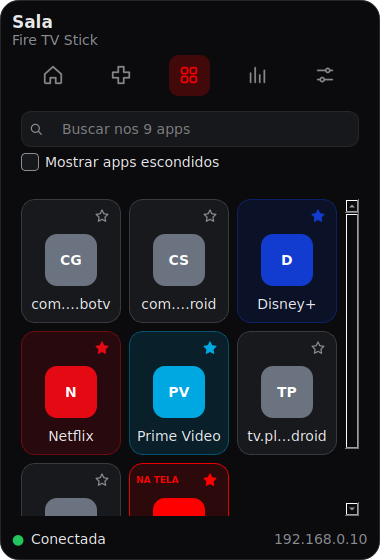
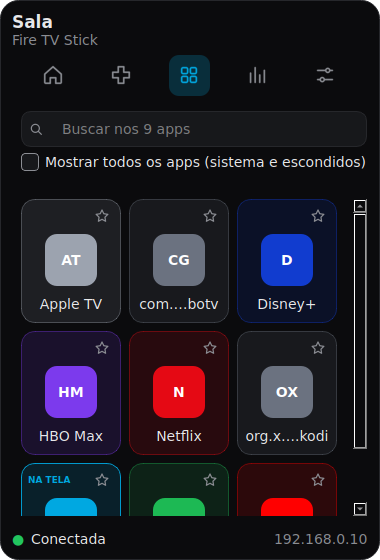
feat: aba Apps mostra só apps famosos e instalados pelo usuário, com nomes reais do Fire TV

diff --git a/tests/test_ui_apps.py b/tests/test_ui_apps.py
@@ -9,6 +9,7 @@ from firetv.ui.apps_tab import AppsTab, AppTile
 
 PM = "pm list packages"
 PACKAGES = "package:com.netflix.ninja\npackage:x.y.z\npackage:a.b.c\n"
+USER_INSTALLED = "package:x.y.z\npackage:a.b.c\n"  # o Netflix vem de fábrica; estes dois foram instalados
 EMPTY_MSG = "Nenhum app encontrado. Conecte ao Stick na aba Ajustes."
 
 
@@ -16,6 +17,7 @@ EMPTY_MSG = "Nenhum app encontrado. Conecte ao Stick na aba Ajustes."
 def env():
     conn = FakeConnection()
     conn.responses[PM] = PACKAGES
+    conn.responses["pm list packages -3"] = USER_INSTALLED
     session = Session(lambda: conn, sleep=lambda s: None)
     session.connect("192.168.0.10")
     return conn, session
@@ -114,6 +116,7 @@ def test_tile_click_launches_package(qtbot, env):
 def test_refreshes_when_session_connects(qtbot):
     conn = FakeConnection()
     conn.responses[PM] = PACKAGES
+    conn.responses["pm list packages -3"] = USER_INSTALLED
     session = Session(lambda: conn, sleep=lambda s: None)
     tab = AppsTab(session, AppConfig())
     qtbot.addWidget(tab)
@@ -125,10 +128,10 @@ def test_refreshes_when_session_connects(qtbot):
 NETFLIX = "com.netflix.ninja"
 
 
-def test_search_placeholder_shows_total_of_loaded_apps(qtbot, env):
+def test_search_placeholder_shows_how_many_apps_are_listed(qtbot, env):
     _, session = env
     tab = make_tab(qtbot, session, AppConfig(hidden=["x.y.z"]), expected_tiles=2)
-    assert tab.search_edit.placeholderText() == "Buscar nos 3 apps"  # conta os escondidos também
+    assert tab.search_edit.placeholderText() == "Buscar nos 2 apps"  # só o que está à mostra
 
 
 def test_search_placeholder_without_apps(qtbot):
@@ -211,3 +214,65 @@ def test_grid_never_scrolls_horizontally(qtbot, env):
     tab = make_tab(qtbot, session, AppConfig(), expected_tiles=3)
     area = tab.findChild(QScrollArea)
     assert area.horizontalScrollBarPolicy() == Qt.ScrollBarAlwaysOff
+
+
+SYSTEM_PACKAGES = PACKAGES + "package:android\npackage:amazon.fireos\npackage:com.amazon.tv.settings\n"
+HINT = 'Nenhum app popular encontrado. Marque "Mostrar todos os apps" para ver o resto.'
+
+
+def test_default_view_lists_only_popular_and_user_installed_apps(qtbot, env):
+    conn, session = env
+    conn.responses[PM] = SYSTEM_PACKAGES
+    tab = make_tab(qtbot, session, AppConfig(), expected_tiles=3)
+    assert names(tab) == ["a.b.c", "Netflix", "x.y.z"]
+
+
+def test_show_all_reveals_system_packages_too(qtbot, env):
+    conn, session = env
+    conn.responses[PM] = SYSTEM_PACKAGES
+    tab = make_tab(qtbot, session, AppConfig(), expected_tiles=3)
+    tab.show_hidden_check.setChecked(True)
+    assert len(tab.tiles()) == 6 and "android" in names(tab)
+    tab.show_hidden_check.setChecked(False)
+    assert len(tab.tiles()) == 3
+
+
+def test_checkbox_label_says_all_apps(qtbot, env):
+    _, session = env
+    assert "todos os apps" in make_tab(qtbot, session, AppConfig()).show_hidden_check.text().lower()
+
+
+def test_prime_video_hbo_and_spotify_show_up_with_their_real_names(qtbot, env):
+    conn, session = env
+    conn.responses[PM] = (
+        "package:com.amazon.firebat\npackage:com.hbo.hbonow\npackage:com.spotify.tv.android\n"
+        "package:android\n"
+    )
+    conn.responses["pm list packages -3"] = ""
+    tab = make_tab(qtbot, session, AppConfig(), expected_tiles=3)
+    assert names(tab) == ["HBO Max", "Prime Video", "Spotify"]
+
+
+def test_placeholder_counts_only_what_is_listed_by_default(qtbot, env):
+    conn, session = env
+    conn.responses[PM] = SYSTEM_PACKAGES
+    tab = make_tab(qtbot, session, AppConfig(), expected_tiles=3)
+    assert tab.search_edit.placeholderText() == "Buscar nos 3 apps"
+    tab.show_hidden_check.setChecked(True)
+    assert tab.search_edit.placeholderText() == "Buscar nos 6 apps"
+
+
+def test_hint_when_only_system_apps_are_installed(qtbot, env):
+    conn, session = env
+    conn.responses[PM] = "package:android\npackage:amazon.fireos\n"
+    conn.responses["pm list packages -3"] = ""
+    tab = make_tab(qtbot, session, AppConfig())
+    qtbot.waitUntil(lambda: tab.empty_label.text() == HINT, timeout=3000)
+    assert tab.tiles() == []
+
+
+def test_search_without_results_keeps_the_short_message(qtbot, env):
+    _, session = env
+    tab = make_tab(qtbot, session, AppConfig(), expected_tiles=3)
+    tab.search_edit.setText("zzzz")
+    assert tab.empty_label.text() == "Nenhum app encontrado." and not tab.empty_label.isHidden()

diff --git a/tests/test_apps.py b/tests/test_apps.py
@@ -95,3 +95,76 @@ def test_launch_rejects_unsafe_package_names(conn, ruim):
     with pytest.raises(ValueError):
         Controller(conn).launch(ruim)
     assert conn.commands == []
+
+
+import pytest as _pytest  # noqa: E402
+
+from firetv.apps import KNOWN_APPS  # noqa: E402
+
+
+@_pytest.mark.parametrize(
+    "package, name",
+    [
+        ("com.amazon.firebat", "Prime Video"),
+        ("com.amazon.avod", "Prime Video"),
+        ("com.amazon.avod.thirdpartyclient", "Prime Video"),
+        ("com.amazon.amazonvideo.livingroom", "Prime Video"),
+        ("com.hbo.hbonow", "HBO Max"),
+        ("com.wbd.stream", "HBO Max"),
+        ("com.spotify.tv.android", "Spotify"),
+        ("com.amazon.firetv.youtube", "YouTube"),
+        ("com.google.android.youtube.tv", "YouTube"),
+        ("com.netflix.ninja", "Netflix"),
+        ("com.disney.disneyplus", "Disney+"),
+        ("com.apple.atve.amazon.appletv", "Apple TV"),
+        ("com.cbs.ott", "Paramount+"),
+        ("tv.pluto.android", "Pluto TV"),
+        ("tv.twitch.android.viewer", "Twitch"),
+    ],
+)
+def test_known_apps_table_has_the_real_fire_tv_packages(package, name):
+    assert KNOWN_APPS[package][0] == name
+
+
+def test_duplicate_known_apps_keep_only_the_first_listed():
+    entries = build_entries(["com.amazon.avod", "com.amazon.firebat"], AppConfig())
+    assert [e.package for e in entries] == ["com.amazon.firebat"]
+
+
+def test_featured_is_known_or_user_installed():
+    entries = build_entries(
+        ["com.netflix.ninja", "x.y.z", "android"], AppConfig(), third_party={"x.y.z"}
+    )
+    featured = {e.package: e.featured for e in entries}
+    assert featured == {"com.netflix.ninja": True, "x.y.z": True, "android": False}
+
+
+def test_everything_is_featured_when_the_user_installed_list_is_unknown():
+    entries = build_entries(["x.y.z", "android"], AppConfig())
+    assert all(e.featured for e in entries)
+
+
+def test_list_apps_marks_system_packages_as_not_featured(conn):
+    conn.responses[PM] = "package:com.netflix.ninja\npackage:android\npackage:x.y.z\n"
+    conn.responses["pm list packages -3"] = "package:x.y.z\n"
+    entries = {e.package: e.featured for e in Controller(conn).list_apps(AppConfig())}
+    assert entries == {"com.netflix.ninja": True, "android": False, "x.y.z": True}
+
+
+def test_list_apps_without_user_installed_output_features_only_known_apps(conn):
+    conn.responses[PM] = "package:com.netflix.ninja\npackage:android\n"
+    entries = {e.package: e.featured for e in Controller(conn).list_apps(AppConfig())}
+    assert entries == {"com.netflix.ninja": True, "android": False}
+
+
+def test_launch_retries_with_the_leanback_category_when_no_activity_is_found(conn):
+    first = "monkey -p com.amazon.firebat -c android.intent.category.LAUNCHER 1"
+    second = "monkey -p com.amazon.firebat -c android.intent.category.LEANBACK_LAUNCHER 1"
+    conn.responses[first] = "** No activities found to run, monkey aborted."
+    Controller(conn).launch("com.amazon.firebat")
+    assert conn.commands[-2:] == [first, second]
+
+
+def test_launch_does_not_retry_when_the_first_attempt_works(conn):
+    Controller(conn).launch("com.netflix.ninja")
+    assert len(conn.commands) == 1

diff --git a/src/firetv/apps.py b/src/firetv/apps.py
@@ -7,13 +7,27 @@ from firetv.config import AppConfig
 
 UNKNOWN_COLOR = "#6B7280"
 
-# pacote -> (nome, cor). Sem logos oficiais: só nome e cor.
+# pacote -> (nome, cor). Sem logos oficiais: só nome e cor. A ordem importa: quando o mesmo
+# app existe com mais de um pacote, vale o primeiro da lista que estiver instalado.
 KNOWN_APPS: dict[str, tuple[str, str]] = {
     "com.netflix.ninja": ("Netflix", "#E50914"),
     "com.amazon.firetv.youtube": ("YouTube", "#FF0000"),
+    "com.google.android.youtube.tv": ("YouTube", "#FF0000"),
+    "com.amazon.firebat": ("Prime Video", "#00A8E1"),
     "com.amazon.avod": ("Prime Video", "#00A8E1"),
+    "com.amazon.avod.thirdpartyclient": ("Prime Video", "#00A8E1"),
+    "com.amazon.amazonvideo.livingroom": ("Prime Video", "#00A8E1"),
     "com.disney.disneyplus": ("Disney+", "#113CCF"),
+    "com.hbo.hbonow": ("HBO Max", "#7C3AED"),
+    "com.wbd.stream": ("HBO Max", "#7C3AED"),
+    "com.spotify.tv.android": ("Spotify", "#1DB954"),
+    "com.apple.atve.amazon.appletv": ("Apple TV", "#9CA3AF"),
+    "com.cbs.ott": ("Paramount+", "#0064FF"),
+    "tv.pluto.android": ("Pluto TV", "#D4A017"),
+    "tv.twitch.android.viewer": ("Twitch", "#9146FF"),
+    "tv.twitch.android.app": ("Twitch", "#9146FF"),
 }
+_KNOWN_ORDER = {package: index for index, package in enumerate(KNOWN_APPS)}
 
 
 @dataclass
@@ -23,6 +37,7 @@ class AppEntry:
     color: str
     favorite: bool
     hidden: bool
+    featured: bool = True  # app famoso ou instalado pelo usuário (não é do sistema)
 
 
 def parse_packages(output: str) -> list[str]:
@@ -34,10 +49,21 @@ def parse_packages(output: str) -> list[str]:
     return packages
 
 
-def build_entries(packages: list[str], cfg: AppConfig) -> list[AppEntry]:
+def build_entries(
+    packages: list[str], cfg: AppConfig, third_party: set[str] | None = None
+) -> list[AppEntry]:
+    """Monta as entradas. `third_party` são os pacotes instalados pelo usuário; sem ele
+    (None) não dá para saber o que é do sistema, então tudo conta como em destaque."""
+    ordered = sorted(dict.fromkeys(packages), key=lambda p: _KNOWN_ORDER.get(p, len(_KNOWN_ORDER)))
+    seen_known: set[str] = set()
     entries = []
-    for package in packages:
+    for package in ordered:
+        known = package in KNOWN_APPS
         name, color = KNOWN_APPS.get(package, (package, UNKNOWN_COLOR))
+        if known:
+            if name in seen_known:  # mesmo app com outro pacote: fica só o primeiro da lista
+                continue
+            seen_known.add(name)
         entries.append(
             AppEntry(
                 package=package,
@@ -45,6 +71,7 @@ def build_entries(packages: list[str], cfg: AppConfig) -> list[AppEntry]:
                 color=color,
                 favorite=package in cfg.favorites,
                 hidden=package in cfg.hidden,
+                featured=known or third_party is None or package in third_party,
             )
         )
     return sorted(entries, key=lambda e: e.name.lower())

diff --git a/src/firetv/ui/apps_tab.py b/src/firetv/ui/apps_tab.py
@@ -27,6 +27,7 @@ from firetv.ui.worker import get_bridge, run_in_background
 
 EMPTY_MESSAGE = "Nenhum app encontrado. Conecte ao Stick na aba Ajustes."
 NO_RESULTS_MESSAGE = "Nenhum app encontrado."
+NO_POPULAR_MESSAGE = 'Nenhum app popular encontrado. Marque "Mostrar todos os apps" para ver o resto.'
 MSG_LOST = "Sem conexão com o Stick. Conecte na aba Ajustes."
 ON_SCREEN = "NA TELA"
 COLUMNS = 3
@@ -153,7 +154,7 @@ class AppsTab(QWidget):
 
         self.search_edit = QLineEdit()
         self.search_edit.addAction(icon("search", theme.MUTED), QLineEdit.LeadingPosition)
-        self.show_hidden_check = QCheckBox("Mostrar apps escondidos")
+        self.show_hidden_check = QCheckBox("Mostrar todos os apps (sistema e escondidos)")
         self.empty_label = QLabel(EMPTY_MESSAGE)
         self.empty_label.setObjectName("help")
         self.empty_label.setWordWrap(True)
@@ -251,12 +252,13 @@ class AppsTab(QWidget):
             item = self._grid.takeAt(0)
             if item.widget() is not None:
                 item.widget().deleteLater()
-        total = len(self._entries)
-        self.search_edit.setPlaceholderText(f"Buscar nos {total} apps" if total else "Buscar apps")
         visible = self._entries
         if not self.show_hidden_check.isChecked():
-            visible = [e for e in visible if not e.hidden]
-        visible = search(visible, self.search_edit.text())
+            visible = [e for e in visible if e.featured and not e.hidden]
+        count = len(visible)
+        self.search_edit.setPlaceholderText(f"Buscar nos {count} apps" if count else "Buscar apps")
+        query = self.search_edit.text()
+        visible = search(visible, query)
         for index, entry in enumerate(visible):
             tile = AppTile(entry)
             tile.set_on_screen(entry.package == self._current)
@@ -267,5 +269,11 @@ class AppsTab(QWidget):
         if visible:
             self.empty_label.hide()
         else:
-            self.empty_label.setText(EMPTY_MESSAGE if not self._entries else NO_RESULTS_MESSAGE)
+            if not self._entries:
+                message = EMPTY_MESSAGE
+            elif query.strip():
+                message = NO_RESULTS_MESSAGE
+            else:
+                message = NO_POPULAR_MESSAGE
+            self.empty_label.setText(message)
             self.empty_label.show()

diff --git a/src/firetv/controller.py b/src/firetv/controller.py
@@ -52,13 +52,16 @@ class Controller:
 
     def list_apps(self, cfg: AppConfig, show_hidden: bool = False) -> list[AppEntry]:
         packages = parse_packages(self.conn.shell("pm list packages"))
-        entries = build_entries(packages, cfg)
+        user_installed = set(parse_packages(self.conn.shell("pm list packages -3")))
+        entries = build_entries(packages, cfg, third_party=user_installed)
         return entries if show_hidden else [e for e in entries if not e.hidden]
 
     def launch(self, package: str) -> None:
         if not _PACKAGE_RE.fullmatch(package):
             raise ValueError(f"nome de pacote inválido: {package!r}")
-        self.conn.shell(f"monkey -p {package} -c android.intent.category.LAUNCHER 1")
+        output = self.conn.shell(f"monkey -p {package} -c android.intent.category.LAUNCHER 1")
+        if "no activities found" in output.lower():  # apps só de TV usam outra categoria
+            self.conn.shell(f"monkey -p {package} -c android.intent.category.LEANBACK_LAUNCHER 1")
 
     def current_app(self) -> str | None:
         return parse_focus(self.conn.shell("dumpsys window | grep mCurrentFocus"))

diff --git a/README.md b/README.md
@@ -18,8 +18,11 @@ Ao abrir, ele conecta sozinho ao IP salvo.
 - **Controle:** direcional circular, Início, Voltar, Menu, mídia e teclado. Atalhos: setas, Enter (OK) e Esc (Voltar),
   que não disparam enquanto você digita em um campo de texto. O Android só aceita ASCII simples ao digitar:
   acentos e `%` são ignorados e o app avisa quais.
-- **Apps:** grade dos apps instalados, com busca, favoritos (estrela), opção de esconder/mostrar apps
-  (botão direito no app) e o rótulo NA TELA no app que está aberto.
+- **Apps:** por padrão mostra só os apps famosos (Netflix, Prime Video, YouTube, Disney+, HBO Max, Spotify,
+  Apple TV, Paramount+ e outros) e os que você mesmo instalou, escondendo os pacotes do sistema. Marque
+  **Mostrar todos os apps** para ver o resto. Tem busca, favoritos (estrela), esconder/mostrar app
+  (botão direito) e o rótulo NA TELA no app que está aberto. Se um app famoso não aparecer, ele pode usar
+  outro nome de pacote: me avise qual é (aparece em Mostrar todos os apps).
 - **Atividade:** tempo por app em primeiro plano no Stick, em Hoje, 7 dias e 30 dias. O histórico é guardado
   só no seu PC (`activity.json`) e começa a contar a partir do primeiro uso. O Stick não informa se a TV está
   desligada, então o tempo pode incluir períodos com a TV apagada.
